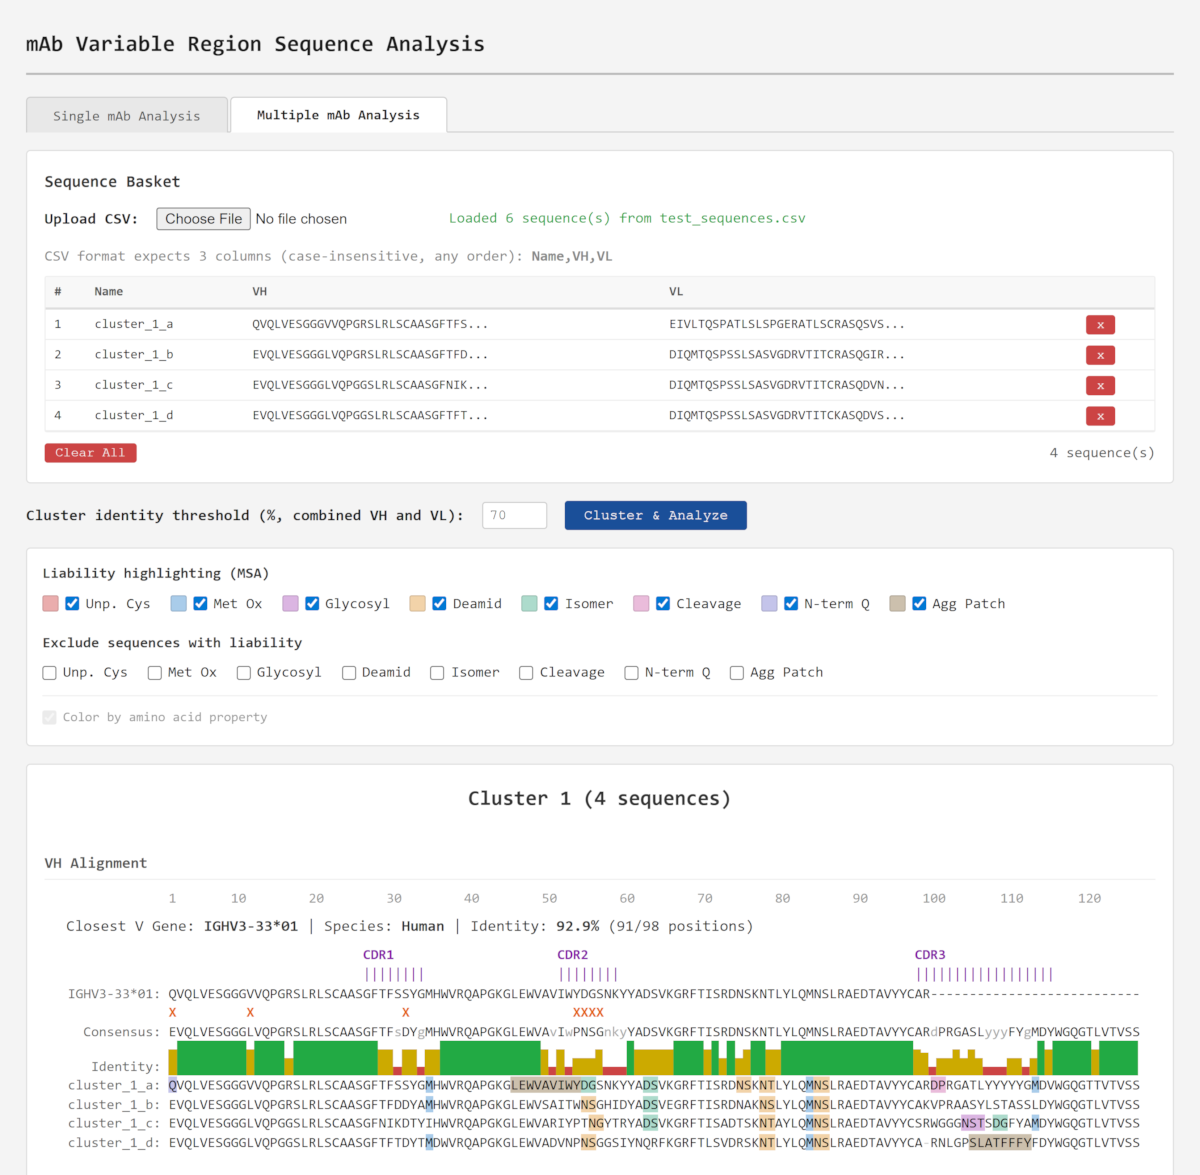
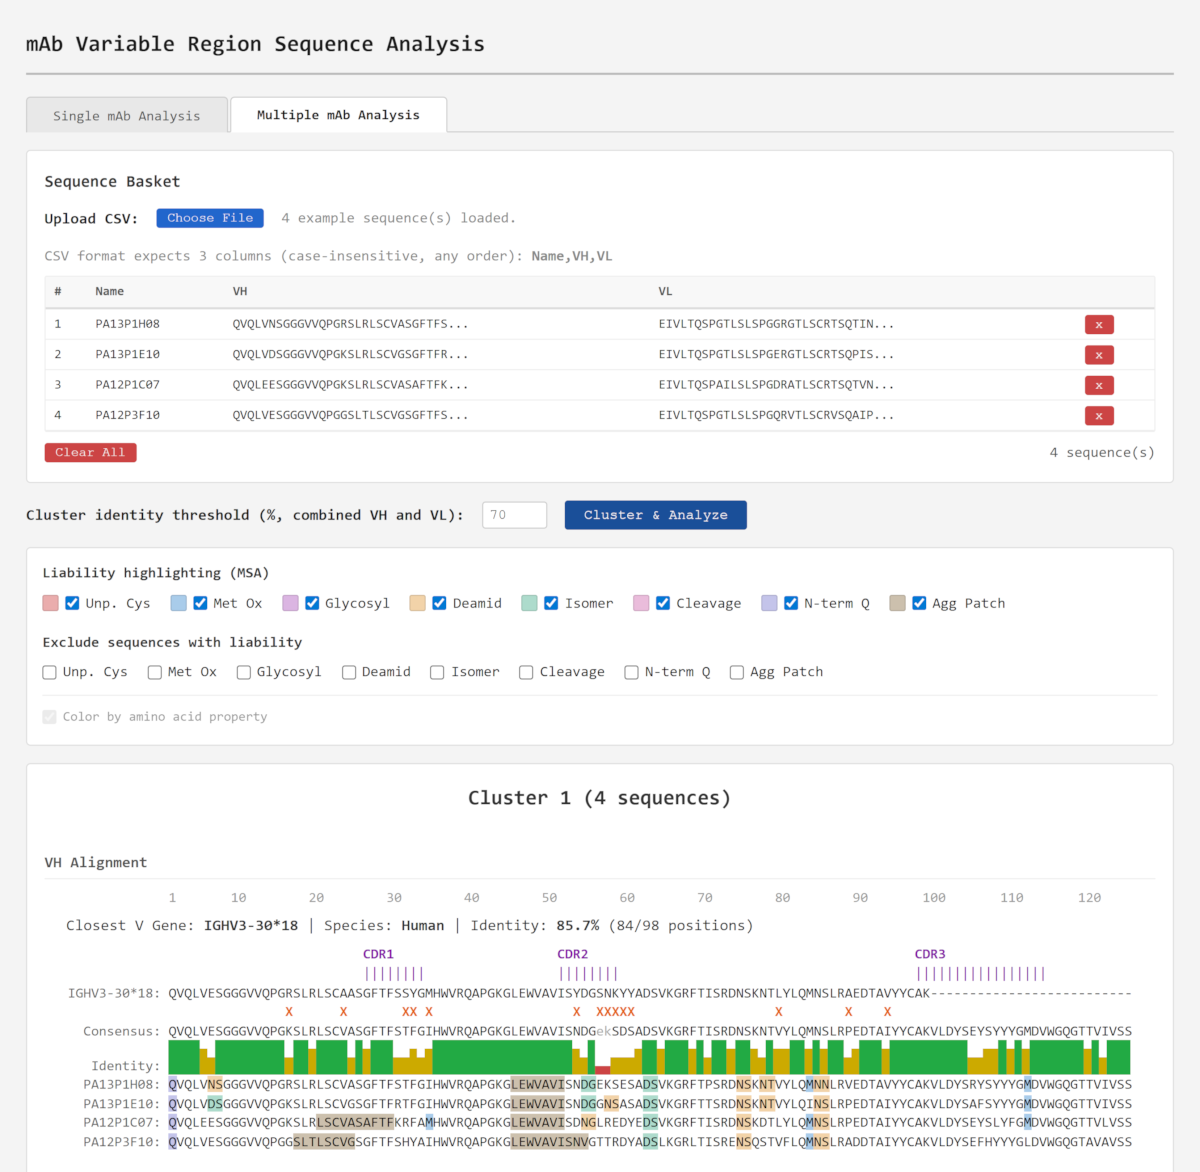
feat: add option to load example set for multiple mAb analysis

diff --git a/index.html b/index.html
@@ -630,9 +630,11 @@ h1 {
     <div class="basket-section">
       <h3>Sequence Basket</h3>
       <div class="basket-upload-row">
-        <label for="csv-upload">Upload CSV:</label>
-        <input type="file" id="csv-upload" accept=".csv,.txt">
+        <label>Upload CSV:</label>
+        <input type="file" id="csv-upload" accept=".csv,.txt" style="position:absolute;width:1px;height:1px;overflow:hidden;clip:rect(0,0,0,0);opacity:0">
+        <button type="button" class="btn btn-primary btn-sm" onclick="document.getElementById('csv-upload').click()">Choose File</button>
         <span id="csv-status" style="font-size:0.85em;color:#888"></span>
+        <span id="load-example-link" style="font-size:0.85em;color:#888;display:none">(<a href="#" onclick="loadExampleCSV();return false;" style="color:#2266cc;text-decoration:underline;cursor:pointer">load an example set</a>)</span>
       </div>
       <p style="font-size:0.85em;color:#888">
         CSV format expects 3 columns (case-insensitive, any order): <b>Name,VH,VL</b>
@@ -2995,6 +2997,8 @@ function clearBasket() {
   basket = [];
   const csvInput = document.getElementById('csv-upload');
   if (csvInput) csvInput.value = '';
+  const statusEl = document.getElementById('csv-status');
+  if (statusEl) statusEl.textContent = '';
   renderBasket();
 }
 
@@ -3003,10 +3007,12 @@ function renderBasket() {
   const countEl = document.getElementById('basket-count-num');
   const clearBtn = document.getElementById('clear-basket-btn');
   const clusterBtn = document.getElementById('cluster-btn');
+  const exampleLink = document.getElementById('load-example-link');
 
   countEl.textContent = basket.length;
   clearBtn.disabled = basket.length === 0;
   clusterBtn.disabled = basket.length === 0;
+  if (exampleLink) exampleLink.style.display = basket.length === 0 ? '' : 'none';
 
   if (basket.length === 0) {
     tbody.innerHTML = '<tr><td colspan="5" style="color:#888;font-style:italic">No sequences added yet.</td></tr>';
@@ -3031,6 +3037,32 @@ function renderBasket() {
 
 function escapeHtml(str) {
   return str.replace(/&/g, '&amp;').replace(/</g, '&lt;').replace(/>/g, '&gt;').replace(/"/g, '&quot;');
+}
+
+// ================================================================
+// EXAMPLE CSV DATA
+// ================================================================
+
+const EXAMPLE_CSV = `name,vh_sequence,vl_sequence
+PA13P1H08,QVQLVNSGGGVVQPGRSLRLSCVASGFTFSTFGIHWVRQAPGKGLEWVAVISNDGEKSESADSVKGRFTPSRDNSKNTVYLQMNNLRVEDTAVYYCAKVLDYSRYSYYYGMDVWGQGTTVIVSS,EIVLTQSPGTLSLSPGGRGTLSCRTSQTINNAHLAWYQHKPGQAPRLLIYGSSERATGVPDRFSGSGSGSDFTLTISSLEAEDFAVYYCQHYGRSPPYTFGPGTKLDIK
+PA13P1E10,QVQLVDSGGGVVQPGKSLRLSCVGSGFTFRTFGIHWVRQAPGKGLEWVAVISNDGGNSASADSVKGRFTTSRDNSKNTVYLQINSLRPEDTAIYYCAKVLDYSAFSYYYGMDVWGQGTTVIVSS,EIVLTQSPGTLSLSPGERGTLSCRTSQPISRAHLAWYQHKAGQAPRLLIYGSTERAAGIPERFSGGGSGSDFTLTISSLEAEDFAVYYCQHYGRSPPYTFGQGTKVEIK
+PA12P1C07,QVQLEESGGGVVQPGKSLRLSCVASAFTFKRFAMHWVRQAPGKGLEWVAVISDNGLREDYEDSVKGRFTISRDNSKDTLYLQMNSLRPEDTAIYYCAKVLDYSEYSLYFGMDVWGQGTTVLVSS,EIVLTQSPAILSLSPGDRATLSCRTSQTVNSNFLAWYQQKPGQAPRLLIYGASRRAIDIPDRFTGSGSGTEFTLTIARLEPEDFAVYSCQHYSDSPPYTFGQGTKLEIK
+PA12P3F10,QVQLVESGGGVVQPGGSLTLSCVGSGFTFSHYAIHWVRQAPGKGLEWVAVISNVGTTRDYADSLKGRLTISRENSQSTVFLQMNSLRADDTAIYYCAKVLDYSEFHYYYGLDVWGQGTAVAVSS,EIVLTQSPGTLSLSPGQRVTLSCRVSQAIPTMYVAWYQQRPGQAPRLLIYGTSSRATGIPDRFSGGGSGTDFTLTINRLEPEDIAVYYCQHYSNSPPYTFGPGTKLEIK
+Ixekizumab,QVQLVQSGAEVKKPGSSVKVSCKASGYSFTDYHIHWVRQAPGQGLEWMGVINPMYGTTDYNQRFKGRVTITADESTSTAYMELSSLRSEDTAVYYCARYDYFTGTGVYWGQGTLVTVSS,DIVMTQTPLSLSVTPGQPASISCRSSRSLVHSRGNTYLHWYLQKPGQSPQLLIYKVSNRFIGVPDRFSGSGSGTDFTLKISRVEAEDVGVYYCSQSTHLPFTFGQGTKLEIK
+Obinutuzumab,QVQLVQSGAEVKKPGSSVKVSCKASGYAFSYSWINWVRQAPGQGLEWMGRIFPGDGDTDYNGKFKGRVTITADKSTSTAYMELSSLRSEDTAVYYCARNVFDGYWLVYWGQGTLVTVSS,DIVMTQTPLSLPVTPGEPASISCRSSKSLLHSNGITYLYWYLQKPGQSPQLLIYQMSNLVSGVPDRFSGSGSGTDFTLKISRVEAEDVGVYYCAQNLELPYTFGGGTKVEIK
+Vedolizumab,QVQLVQSGAEVKKPGASVKVSCKGSGYTFTSYWMHWVRQAPGQRLEWIGEIDPSESNTNYNQKFKGRVTLTVDISASTAYMELSSLRSEDTAVYYCARGGYDGWDYAIDYWGQGTLVTVSS,VMTQSPLSLPVTPGEPASISCRSSQSLAKSYGNTYLSWYLQKPGQSPQLLIYGISNRFSGVPDRFSGSGSGTDFTLKISRVEAEDVGVYYCLQGTHQPYTFGQGTKVEIK
+`;
+
+function loadExampleCSV() {
+  const count = loadCSVToBasket(EXAMPLE_CSV);
+  const statusEl = document.getElementById('csv-status');
+  if (statusEl) {
+    if (count > 0) {
+      statusEl.textContent = count + ' example sequence(s) loaded.';
+    } else {
+      statusEl.textContent = 'Failed to load example.';
+    }
+  }
 }
 
 // ================================================================

diff --git a/README.md b/README.md
@@ -31,7 +31,7 @@ Code is open source, permissively licensed under Apache 2.0, and available at [h
 
 ## Screenshot - Multiple mAb Analysis
 
-<img src="screenshot_multiple_mab_analysis.png" alt="Screenshot of multiple mAb analysis" width="1200" height="1175">
+<img src="screenshot_multiple_mab_analysis.png" alt="Screenshot of multiple mAb analysis" width="1200" height="1172">
 
 ## Developer notes
 
